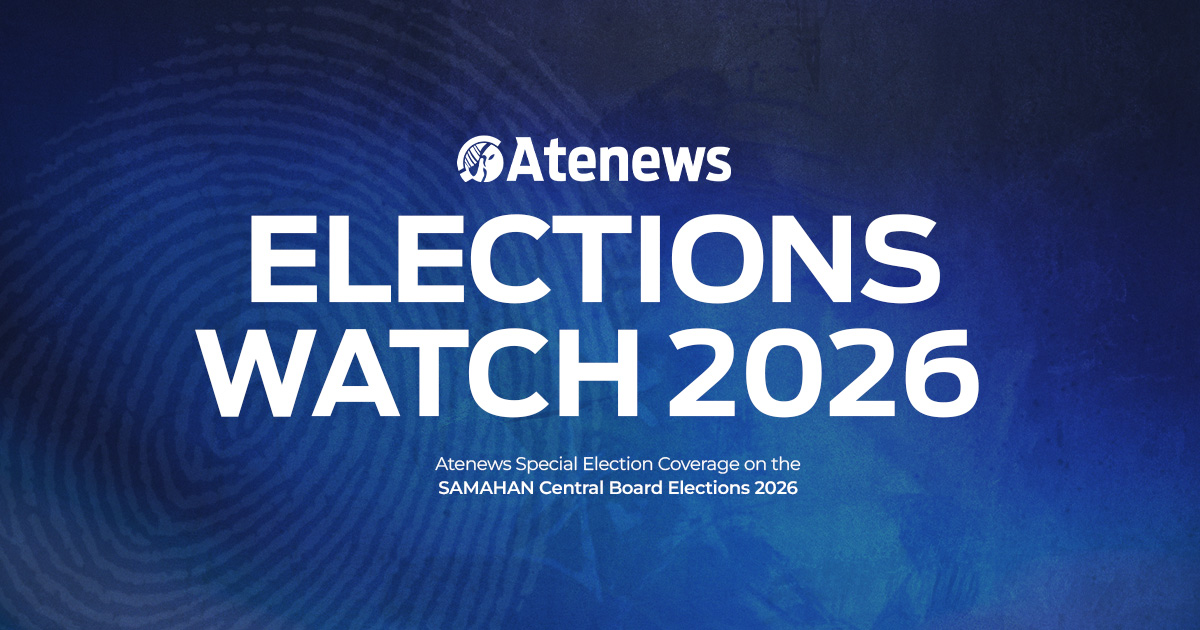
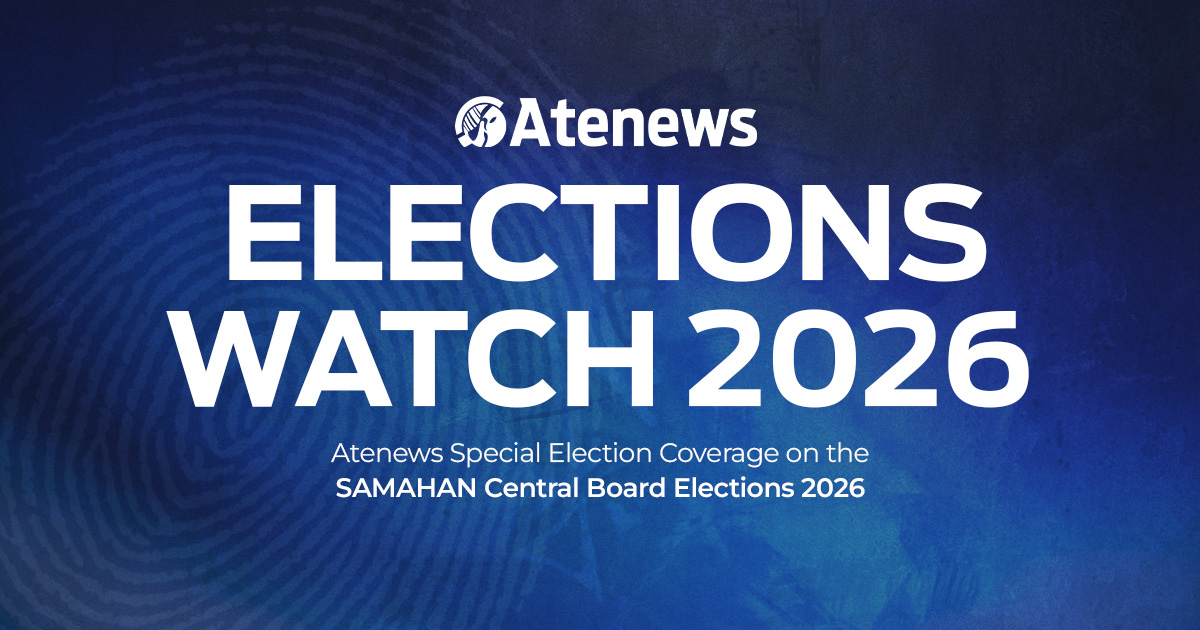
fix: thumbnail

Changed region(s): [[0.1233, 0.1508, 0.8633, 0.6635], [0.2775, 0.6937, 0.74, 0.8143]]

diff --git a/src/app/editorial/page.tsx b/src/app/editorial/page.tsx
@@ -1,4 +1,12 @@
 import ToBeReleased from "@/components/ToBeReleased"
+import type { Metadata } from 'next'
+
+export const metadata: Metadata = {
+  openGraph: {
+    title: 'All but a numbers game',
+    images: [{ url: 'https://elections-watch-2026.atenews.ph/editorial/electionswatch_editorialthumbnail.jpg' }],
+  },
+}
 
 export default function EditorialPage() {
   return (
